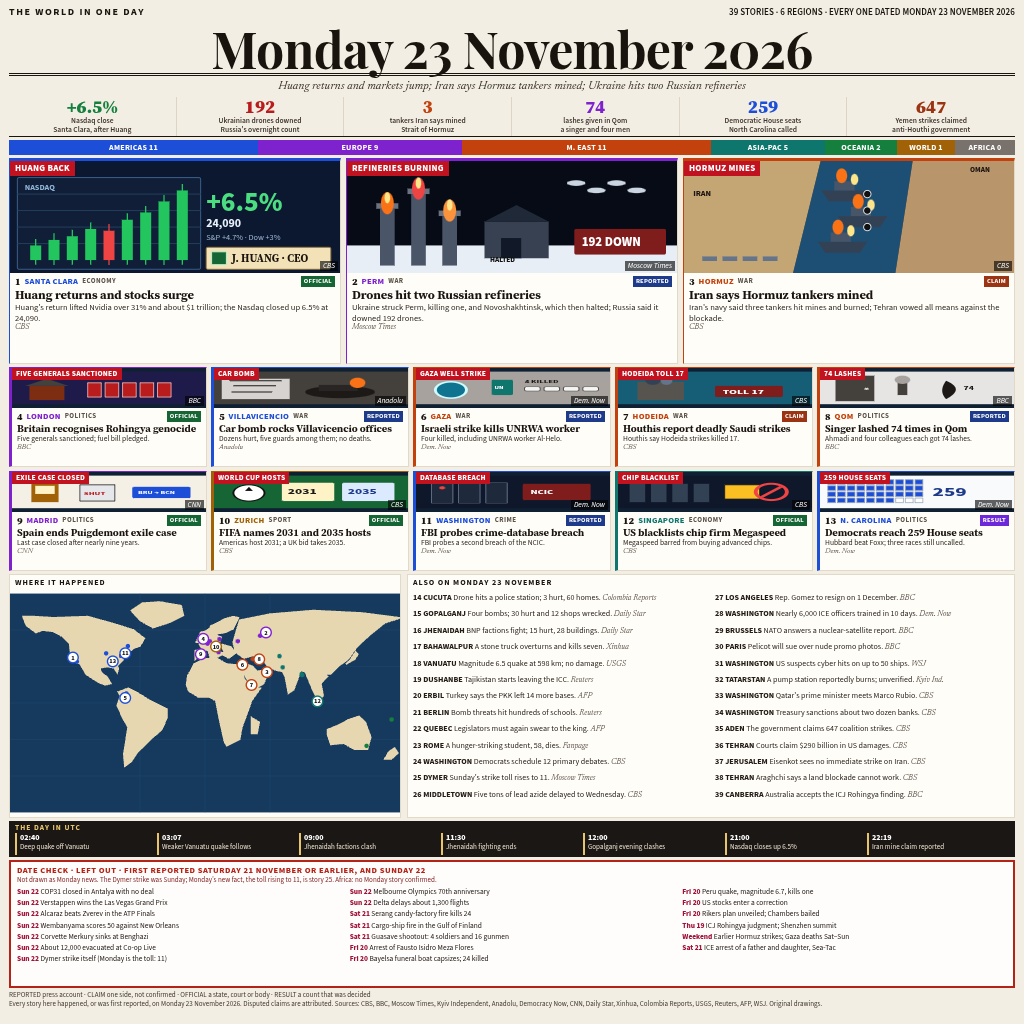
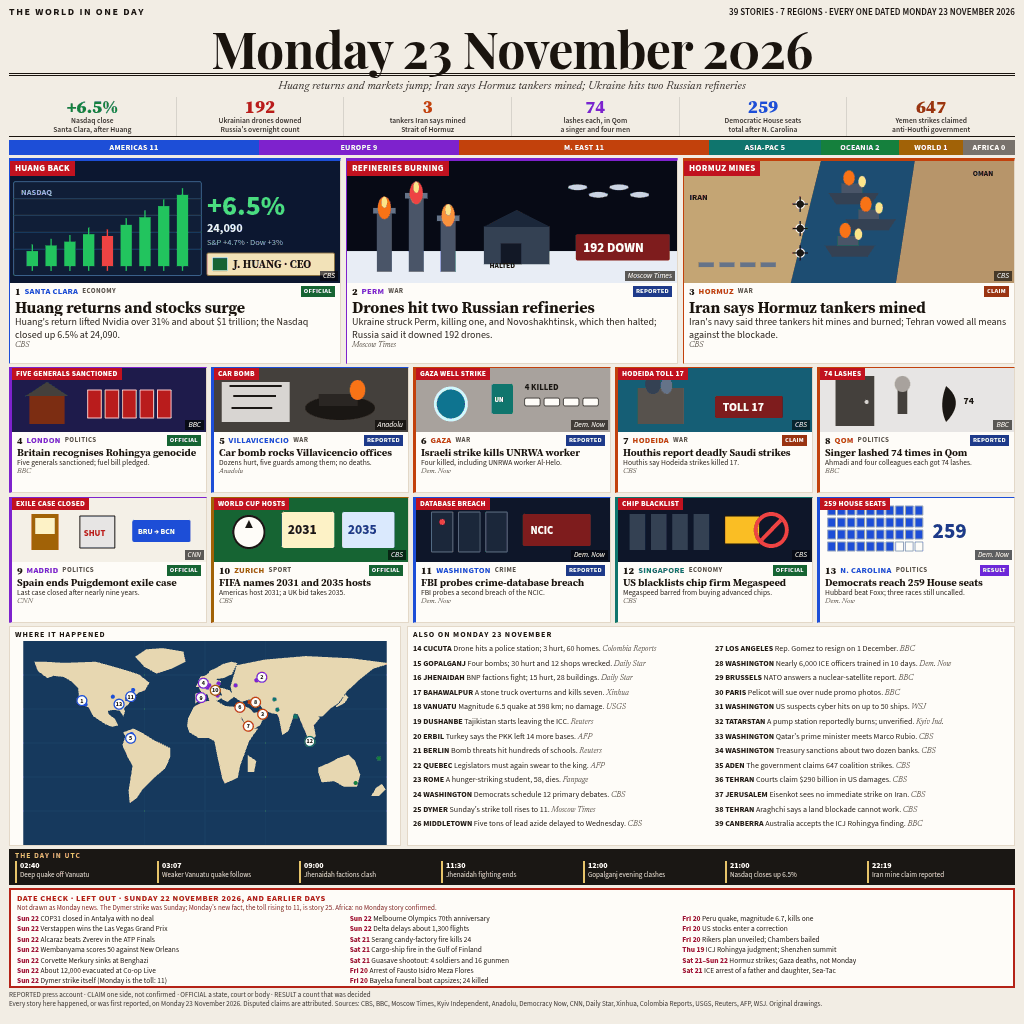
Polish Monday 23 Nov 2026 page

diff --git a/build/js/layout.js b/build/js/layout.js
@@ -31,8 +31,8 @@ const FIG = [
   ["+6.5%", "#15803d", "Nasdaq close", "Santa Clara, after Huang"],
   ["192", "#b91c1c", "Ukrainian drones downed", "Russia's overnight count"],
   ["3", "#c2410c", "tankers Iran says mined", "Strait of Hormuz"],
-  ["74", "#7e22ce", "lashes given in Qom", "a singer and four men"],
-  ["259", "#1d4ed8", "Democratic House seats", "North Carolina called"],
+  ["74", "#7e22ce", "lashes each, in Qom", "a singer and four men"],
+  ["259", "#1d4ed8", "Democratic House seats", "total after N. Carolina"],
   ["647", "#9a3412", "Yemen strikes claimed", "anti-Houthi government"]
 ];
 const ALSO = [
@@ -82,7 +82,7 @@ const LEFT = [
   ["Fri 20", "US stocks enter a correction"],
   ["Fri 20", "Rikers plan unveiled; Chambers bailed"],
   ["Thu 19", "ICJ Rohingya judgment; Shenzhen summit"],
-  ["Weekend", "Earlier Hormuz strikes; Gaza deaths Sat–Sun"],
+  ["Sat 21–Sun 22", "Hormuz strikes; Gaza deaths, not Monday"],
   ["Sat 21", "ICE arrest of a father and daughter, Sea-Tac"]
 ];
 function cardHtml(s, kind) {
@@ -96,7 +96,7 @@ function cardHtml(s, kind) {
 }
 function regionBar() {
   const rows = [["Americas", 11], ["Europe", 9], ["Middle East", 11], ["Asia-Pacific", 5], ["Oceania", 2], ["World", 1], ["Africa", 0]];
-  const w = { Americas: 249, Europe: 204, "Middle East": 249, "Asia-Pacific": 114, Oceania: 72, World: 58, Africa: 60 };
+  const w = { Americas: 250, Europe: 200, "Middle East": 250, "Asia-Pacific": 112, Oceania: 78, World: 64, Africa: 52 };
   return `<div class="rbar">${rows.map(([k, n]) => `<div class="rseg" style="width:${w[k]}px;background:${REG[k][0]}">${REG[k][1]} ${n}</div>`).join("")}</div>`;
 }
 async function boot() {
@@ -108,7 +108,7 @@ async function boot() {
   const ticks = data.timeline.map(t => `<div class="tick"><b>${t.utc}</b><span>${esc(t.text)}</span></div>`).join("");
   const left = LEFT.map(([d, e]) => `<li><b>${d}</b> ${esc(e)}</li>`).join("");
   document.getElementById("app").innerHTML = `
-    <div class="krow"><div class="kicker">THE WORLD IN ONE DAY</div><div class="count">39 STORIES · 6 REGIONS · EVERY ONE DATED MONDAY 23 NOVEMBER 2026</div></div>
+    <div class="krow"><div class="kicker">THE WORLD IN ONE DAY</div><div class="count">39 STORIES · 7 REGIONS · EVERY ONE DATED MONDAY 23 NOVEMBER 2026</div></div>
     <h1 class="date">${esc(data.date)}</h1>
     <p class="tag">${esc(data.tagline)}</p>
     <section class="figs">${figs}</section>
@@ -118,7 +118,7 @@ async function boot() {
     <section class="mid"><div class="mapwrap"><div class="lbl">WHERE IT HAPPENED</div><div id="mapbox"></div></div>
       <div class="also"><div class="lbl">ALSO ON MONDAY 23 NOVEMBER</div><ul class="alsolist">${also}</ul></div></section>
     <section class="utc"><div class="ulbl">THE DAY IN UTC</div><div class="rail">${ticks}</div></section>
-    <section class="check"><p class="clbl">DATE CHECK · LEFT OUT · FIRST REPORTED SATURDAY 21 NOVEMBER OR EARLIER, AND SUNDAY 22</p>
+    <section class="check"><p class="clbl">DATE CHECK · LEFT OUT · SUNDAY 22 NOVEMBER 2026, AND EARLIER DAYS</p>
       <p class="csub">Not drawn as Monday news. The Dymer strike was Sunday; Monday’s new fact, the toll rising to 11, is story 25. Africa: no Monday story confirmed.</p>
       <ul>${left}</ul></section>
     <footer class="foot"><p>REPORTED press account · CLAIM one side, not confirmed · OFFICIAL a state, court or body · RESULT a count that was decided</p>

diff --git a/build/css/lower.css b/build/css/lower.css
@@ -5,10 +5,10 @@
 .alsolist { flex: 1; column-count: 2; column-gap: 8px; padding: 1px 5px 2px; margin: 0; }
 .alsolist li {
   list-style: none; break-inside: avoid; white-space: nowrap; overflow: hidden;
-  font: 8px/15.4px "Source Sans 3", sans-serif; color: #241c16;
+  font: 8px/14.6px "Source Sans 3", sans-serif; color: #241c16;
 }
 .alsolist b { font-weight: 800; }
-.alsolist i { font: italic 8px/15.4px "Newsreader", serif; color: #5c534a; }
+.alsolist i { font: italic 8px/14.6px "Newsreader", serif; color: #5c534a; }
 .ulbl { font: 700 7.5px/10px "Source Sans 3", sans-serif; letter-spacing: .14em; color: #e8c56b; }
 .rail { display: flex; height: 22px; }
 .tick { flex: 1; min-width: 0; border-left: 2px solid #e8c56b; padding: 0 3px; overflow: hidden; }
@@ -17,7 +17,7 @@
 .clbl { margin: 0; font: 800 8.5px/12px "Source Sans 3", sans-serif; letter-spacing: .06em; color: #b42318; }
 .csub { margin: 0; font: 7px/9px "Source Sans 3", sans-serif; color: #7f1d1d; }
 .check ul { columns: 3; column-gap: 8px; margin: 1px 0 0; padding: 0; }
-.check li { list-style: none; break-inside: avoid; font: 7.4px/11.2px "Source Sans 3", sans-serif; white-space: nowrap; overflow: hidden; }
+.check li { list-style: none; break-inside: avoid; font: 7.4px/10.4px "Source Sans 3", sans-serif; white-space: nowrap; overflow: hidden; }
 .check li b { color: #9f1239; font-weight: 800; }
 .foot p { margin: 0; font: 7px/9px "Source Sans 3", sans-serif; color: #3f362e; }
 .foot i { font-style: italic; }

diff --git a/build/js/art-leads.js b/build/js/art-leads.js
@@ -50,8 +50,10 @@ function artHormuz() {
     <polygon points="0,0 150,0 118,130 0,130" fill="#c4a574"/>
     <polygon points="250,0 360,0 360,130 230,130" fill="#b8956a"/>
     <polygon points="150,0 250,0 230,130 118,130" fill="#1d4e73"/>
-    ${ship(150, 36)}${ship(168, 64)}${ship(146, 92)}
-    ${[40, 58, 76].map(y => `<circle cx="200" cy="${y}" r="4" fill="#111" stroke="#e5e7eb" stroke-width="1"/>`).join("")}
+    ${ship(158, 34)}${ship(176, 62)}${ship(154, 90)}
+    ${[46, 72, 98].map(y => `<g><circle cx="128" cy="${y}" r="4.5" fill="#111" stroke="#f8fafc" stroke-width="1.2"/>
+      <line x1="128" y1="${y - 8}" x2="128" y2="${y + 8}" stroke="#111" stroke-width="1.3"/>
+      <line x1="120" y1="${y}" x2="136" y2="${y}" stroke="#111" stroke-width="1.3"/></g>`).join("")}
     <g fill="#64748b">${[0, 1, 2, 3].map(i => `<rect x="${20 + i * 22}" y="108" width="16" height="5"/>`).join("")}</g>
     <text x="10" y="42" fill="#1c140f" font-family="Source Sans 3" font-size="9" font-weight="800">IRAN</text>
     <text x="312" y="16" fill="#1c140f" font-family="Source Sans 3" font-size="8" font-weight="800">OMAN</text>`);

diff --git a/build/css/cards.css b/build/css/cards.css
@@ -4,9 +4,9 @@
 }
 .lead { border-top: 3px solid #1a140f; }
 .ill { position: relative; background: #102033; overflow: hidden; flex: 0 0 auto; }
-.lead .ill { height: 112px; }
+.lead .ill { height: 122px; }
 .card { border-left: 3px solid #1a140f; }
-.card .ill { height: 40px; }
+.card .ill { height: 64px; }
 .ill svg { display: block; width: 100%; height: 100%; }
 .ban {
   position: absolute; left: 0; top: 0; max-width: 92%;
@@ -35,10 +35,12 @@
   letter-spacing: -0.1px; max-height: 29px; overflow: hidden;
 }
 .card .h { font-size: 10.5px; line-height: 1.12; max-height: 24px; }
+.lead .h { font-size: 16px; line-height: 1.15; max-height: 20px; }
 .dek {
   margin: 0; font: 8.5px/1.2 "Source Sans 3", sans-serif; color: #2c261f;
   max-height: 22px; overflow: hidden;
 }
+.lead .dek { font-size: 10px; line-height: 1.25; max-height: 26px; }
 .card .dek { font-size: 7.5px; line-height: 1.15; white-space: nowrap; max-height: 10px; }
 .src { margin: 0; font: italic 8px/1.2 "Newsreader", serif; color: #5c534a; white-space: nowrap; }
 .card .src { font-size: 7.5px; }

diff --git a/build/css/base.css b/build/css/base.css
@@ -28,8 +28,8 @@ html, body { margin: 0; width: 1024px; height: 1024px; overflow: hidden; backgro
   font: 700 8px/15px "Source Sans 3", sans-serif; letter-spacing: .03em;
 }
 .leads { display: grid; grid-template-columns: repeat(3, 1fr); gap: 5px; height: 206px; }
-.cards { display: grid; grid-template-columns: repeat(5, 1fr); gap: 4px; height: 204px; }
-.mid { display: grid; grid-template-columns: 392px 1fr; gap: 6px; height: 244px; min-height: 0; }
+.cards { display: grid; grid-template-columns: repeat(5, 1fr); gap: 4px; height: 256px; }
+.mid { display: grid; grid-template-columns: 392px 1fr; gap: 6px; height: 220px; min-height: 0; }
 .utc { height: 36px; background: #1b1714; color: #f6f1e7; padding: 2px 6px 3px; }
-.check { height: 128px; border: 2px solid #b42318; padding: 2px 6px 3px; background: #fffdfb; overflow: hidden; }
+.check { height: 100px; border: 2px solid #b42318; padding: 2px 6px 3px; background: #fffdfb; overflow: hidden; }
 .foot { height: 28px; overflow: hidden; }

diff --git a/main.ts b/main.ts
@@ -1,6 +1,8 @@
-// Monday 23 November 2026, drawn as one front page. The date is the masthead.
-// Under it: six figures, a region bar, three illustrated leads, ten numbered cards,
-// a lat/lon pin map, an also-on list, a UTC timeline and a date-check of earlier reports.
+// Monday 23 November 2026 front page. The masthead names that day.
+// Six figures, a seven-region bar (Africa 0), three illustrated leads — Huang and the
+// Nasdaq, drones on two Russian refineries, three mined Hormuz tankers — then ten cards,
+// a pin map, also-on stories 14–39, a UTC strip, and a date-check of Sunday 22 November
+// 2026 and earlier days, left out of the Monday news.
 // The program copies that image to $MAKEFUN_OUTPUT_DIR/entry.png, or to /output.
 
 import { copyFileSync, readFileSync } from 'node:fs';

diff --git a/build/js/art-cards.js b/build/js/art-cards.js
@@ -1,5 +1,5 @@
 function cardSvg(inner) {
-  return `<svg viewBox="0 0 200 44" xmlns="http://www.w3.org/2000/svg" preserveAspectRatio="none"><g transform="translate(0,4) scale(1,0.56)">${inner}</g></svg>`;
+  return `<svg viewBox="0 0 200 64" xmlns="http://www.w3.org/2000/svg" preserveAspectRatio="none">${inner}</svg>`;
 }
 const CARD = {
   4: `<rect width="200" height="64" fill="#1e1b4b"/>

diff --git a/build/pack.py b/build/pack.py
@@ -3,13 +3,14 @@ raw = Image.open("build/raw.png").convert("RGB")
 if raw.size != (1024, 1024):
     raise SystemExit(f"bad size {raw.size}")
 q = raw.quantize(colors=256, method=Image.Quantize.FASTOCTREE, dither=Image.Dither.NONE)
-q.save("entry.png", optimize=True)
+rgb = q.convert("RGB")
+rgb.save("entry.png", optimize=True, compress_level=9)
 size = __import__("os").path.getsize("entry.png")
-print(f"palette {size} bytes")
+print(f"quantized 24-bit {size} bytes")
 if size < 150_000 or size > 260_000:
     raw.save("entry.png", optimize=True, compress_level=9)
     size = __import__("os").path.getsize("entry.png")
-    print(f"24-bit {size} bytes")
+    print(f"full 24-bit {size} bytes")
 if not (150_000 <= size <= 260_000):
     raise SystemExit(f"size {size} outside 150-260 KB")
 raw.resize((300, 300), Image.Resampling.LANCZOS).save("build/at300.png")

diff --git a/NOTES.md b/NOTES.md
@@ -33,3 +33,6 @@ Done: research file and `tools/check-stories.mjs`. Next session renders the imag
 
 Done: rendered the 1024 front page from data/stories.json (3 leads, 10 cards, pin map, also-on, UTC strip, date-check). entry.png is a 24-bit PNG, about 253 KB.
 Next: none for this session. Do not add stories. If a later pass tightens anything, keep deks one line and the also-list inside the box.
+
+Done: polished the Monday 23 November 2026 page. The kicker says 7 regions, matching the bar, with Africa 0 the narrowest. The date-check names Sunday 22 November 2026, and the weekend Hormuz and Gaza line is dated Sat 21–Sun 22. Card drawings are unsquashed and the Hormuz mines sit in the channel. entry.png is 1024×1024, about 231 KB.
+Next: none. Do not add stories.
